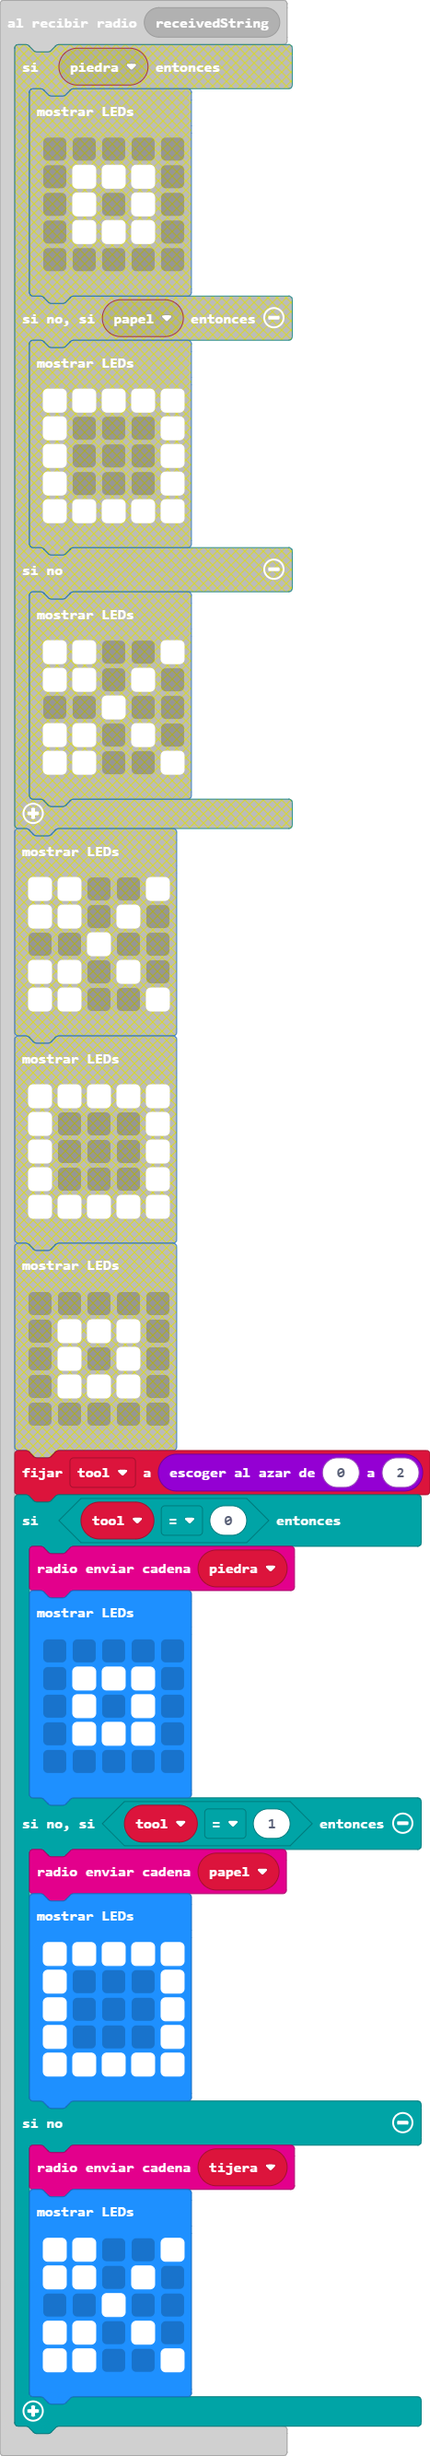
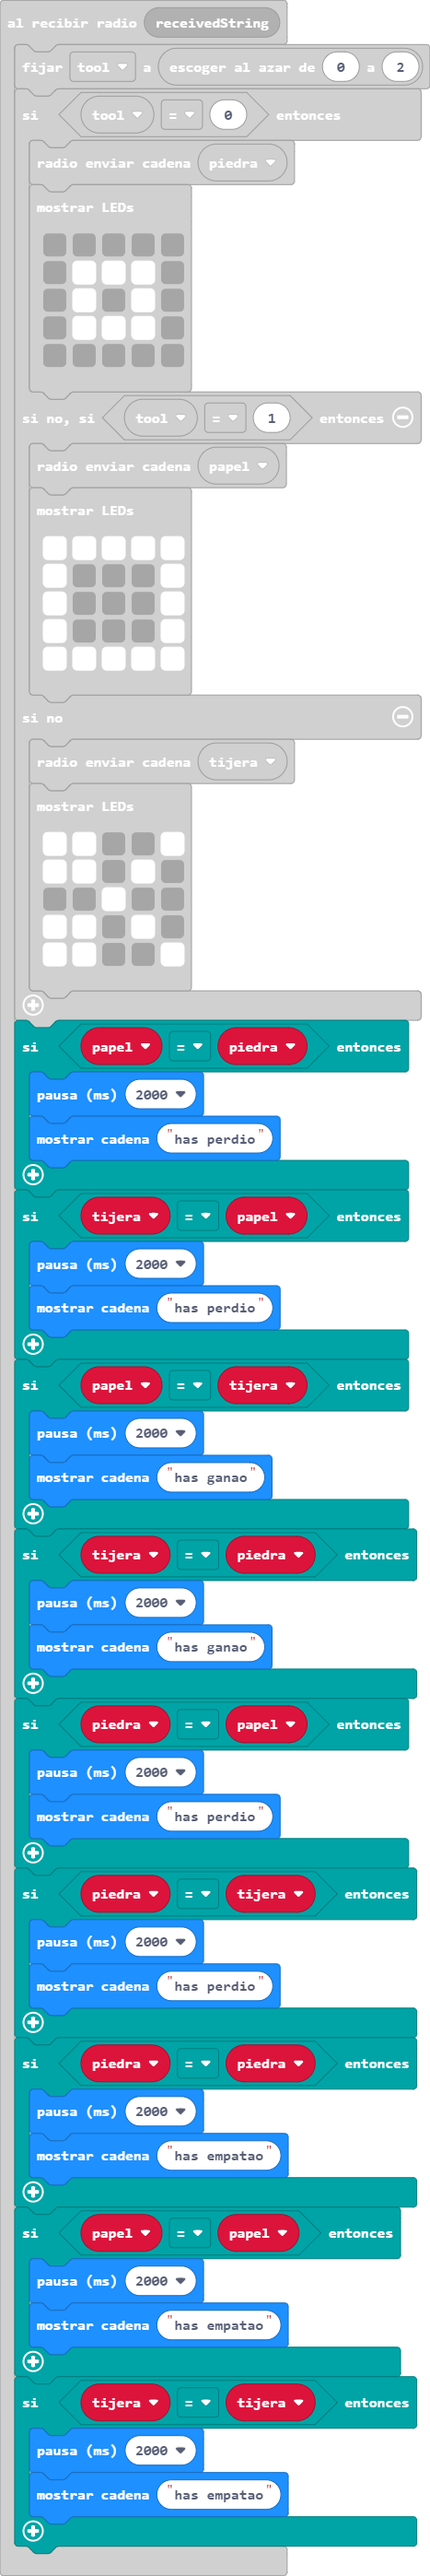
Actualizar main.blocks, main.ts

diff --git a/main.ts b/main.ts
@@ -64,6 +64,42 @@ radio.onReceivedString(function (receivedString) {
             # # . . #
             `)
     }
+    if (papel == piedra) {
+        basic.pause(2000)
+        basic.showString("has perdio")
+    }
+    if (tijera == papel) {
+        basic.pause(2000)
+        basic.showString("has perdio")
+    }
+    if (papel == tijera) {
+        basic.pause(2000)
+        basic.showString("has ganao")
+    }
+    if (tijera == piedra) {
+        basic.pause(2000)
+        basic.showString("has ganao")
+    }
+    if (piedra == papel) {
+        basic.pause(2000)
+        basic.showString("has perdio")
+    }
+    if (piedra == tijera) {
+        basic.pause(2000)
+        basic.showString("has perdio")
+    }
+    if (piedra == piedra) {
+        basic.pause(2000)
+        basic.showString("has empatao")
+    }
+    if (papel == papel) {
+        basic.pause(2000)
+        basic.showString("has empatao")
+    }
+    if (tijera == tijera) {
+        basic.pause(2000)
+        basic.showString("has empatao")
+    }
 })
 basic.forever(function () {
     radio.setGroup(666)
